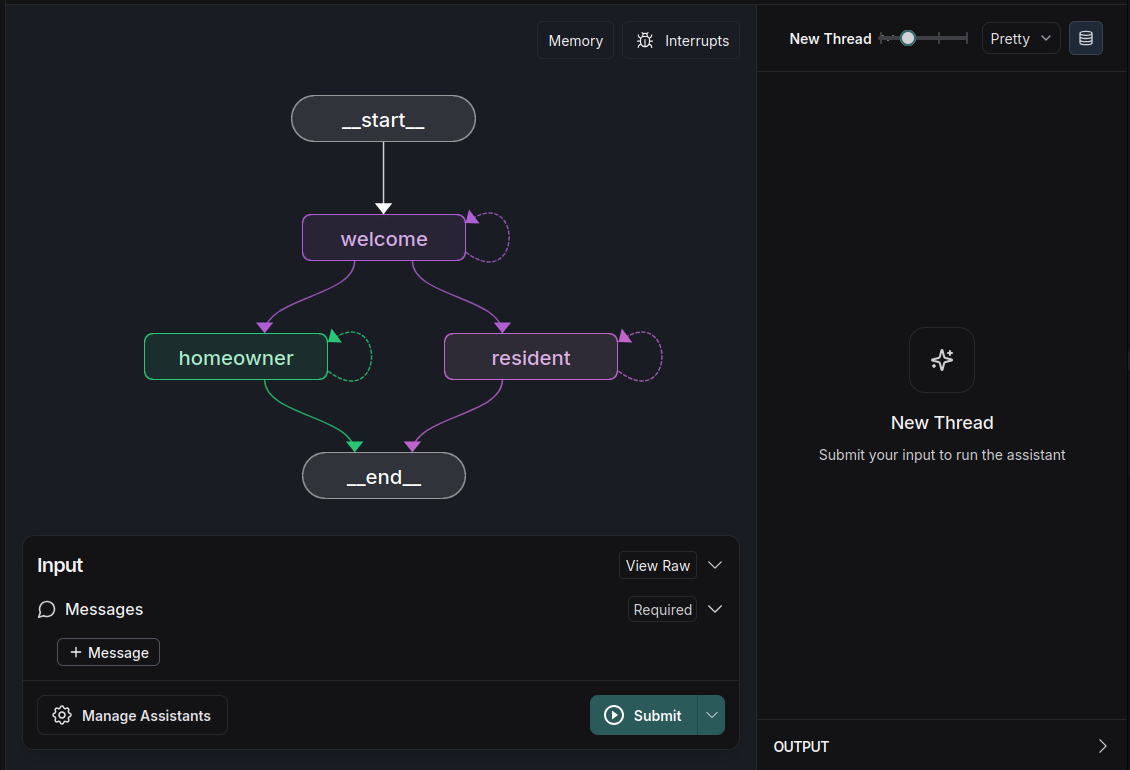
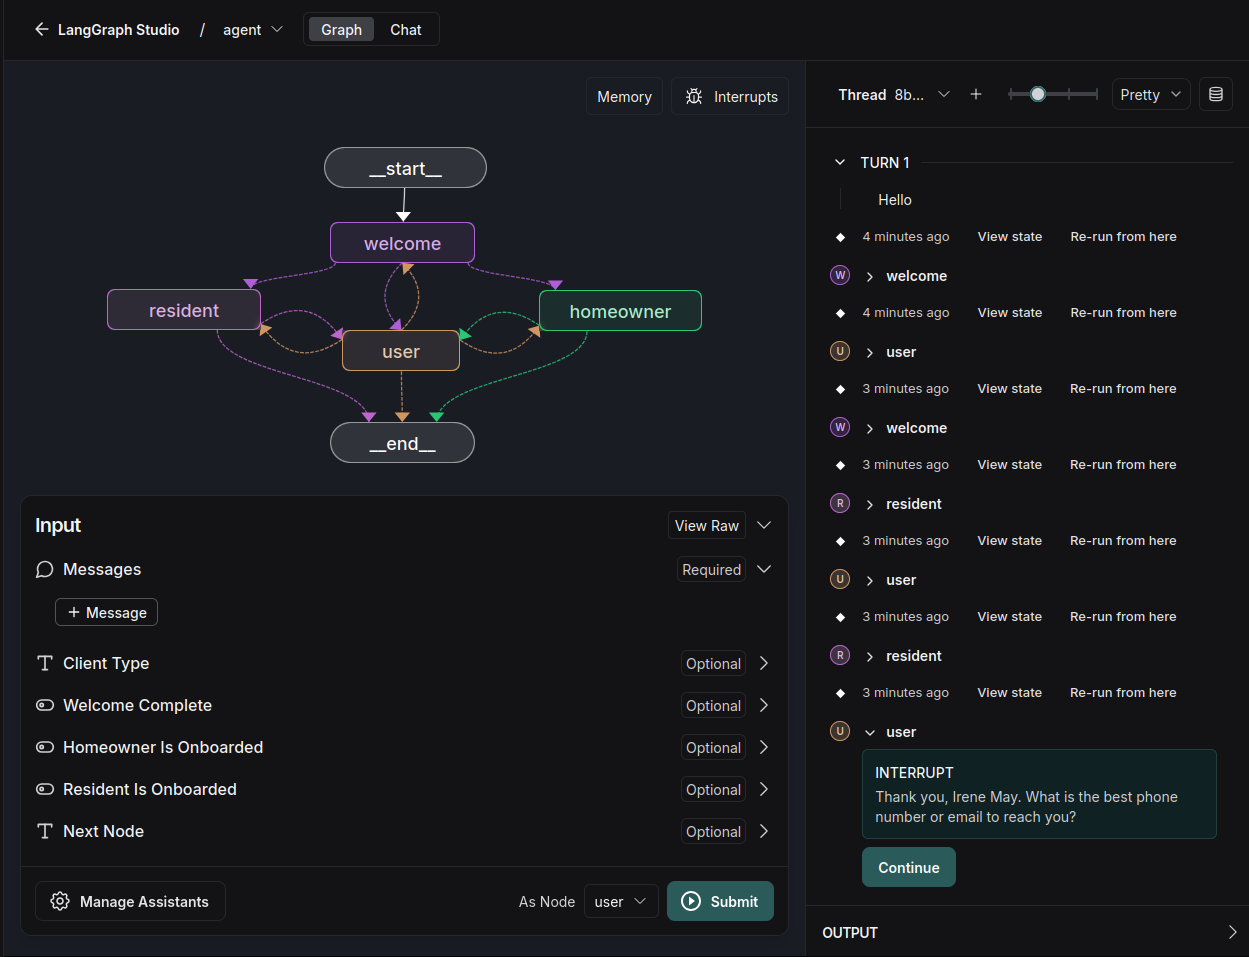
renting_chatbot: Included the user node.

diff --git a/renting-chatbot/src/renting_chatbot/agents.py b/renting-chatbot/src/renting_chatbot/agents.py
@@ -5,7 +5,8 @@ from datetime import datetime
 from langgraph.prebuilt import create_react_agent
 from langgraph.errors import NodeInterrupt
 from langgraph.checkpoint.memory import MemorySaver
-# from langchain_core.messages import AIMessage #AnyMessage, SystemMessage, HumanMessage, ToolMessage, AIMessage, trim_messages
+from langchain_core.messages import HumanMessage #AIMessage AnyMessage, SystemMessage, HumanMessage, ToolMessage, AIMessage, trim_messages
+from langgraph.types import interrupt, Command
 
 from src.renting_chatbot.state import State
 from src.renting_chatbot.prompts import WELCOME_AGENT_PROMPT, HOMEOWNER_AGENT_PROMPT, RESIDENT_AGENT_PROMPT
@@ -27,34 +28,35 @@ def welcome_node(state: State, config: dict):
         first_message = "Yes"
     else:
         first_message = "No"
-
-    # replace placeholder with messages from state
-    p = WELCOME_AGENT_PROMPT.format(
-        messages = messages,
-        company_name = os.getenv("COMPANY_NAME"),
-        first_message = first_message
-    )
-
-    raw_model = init_model(config)
-    welcome_agent = create_react_agent(
-                                model = raw_model, 
-                                tools = [], 
-                                prompt = p,
-                                # response_format=WelcomeAgentResponse,
-                                # state_schema=CustomAgentState,
-                                # debug=True,
-                        )
-
-    response = welcome_agent.invoke({"messages": messages}, config = config )
-    
-    # Parse the JSON from the last message to extract onboarding_complete and client_type
     try:
+        # replace placeholder with messages from state
+        p = WELCOME_AGENT_PROMPT.format(
+            messages = messages,
+            company_name = os.getenv("COMPANY_NAME"),
+            first_message = first_message
+        )
+
+        raw_model = init_model(config)
+        welcome_agent = create_react_agent(
+                                    model = raw_model, 
+                                    tools = [], 
+                                    prompt = p,
+                                    # response_format=WelcomeAgentResponse,
+                                    # state_schema=CustomAgentState,
+                                    # debug=True,
+                            )
+
+        response = welcome_agent.invoke({"messages": messages}, config = config )
+
         last_message = response['messages'][-1].content
         # Check if the content is a valid JSON string
         result = extract_json_from_message(last_message)
+
+        # Parse the JSON from the last message to extract onboarding_complete and client_type
         
         if result is not None:
             ai_response = result.get("message", "")
+
             client_type = result.get("client_type", "unsure")
             welcome_complete = result.get("welcome_complete", False)
 
@@ -66,6 +68,7 @@ def welcome_node(state: State, config: dict):
                 "messages": response['messages'],
                 "welcome_complete": welcome_complete,
                 "client_type": client_type,
+                "next_node": "welcome"
             }
         else:
             logger.error(f"Error parsing JSON from welcome agent: {last_message}")
@@ -95,11 +98,11 @@ def homeowner_node(state: State, config: dict):
                                     )
 
         response = homeowner_agent.invoke({"messages": messages}, config = config )
-        
+
         last_message = response['messages'][-1].content
         # Check if the content is a valid JSON string
         result = extract_json_from_message(last_message)
-        
+
         if result is not None:
             ai_response = result.get("message", "")
             homeowner_name = result.get("name", None)
@@ -121,7 +124,8 @@ def homeowner_node(state: State, config: dict):
 
             return {
                 "messages": response['messages'],
-                "homeowner_is_onboarded": onboarding_complete
+                "homeowner_is_onboarded": onboarding_complete,
+                "next_node": "homeowner"
             }
         else:
             logger.error(f"Error parsing JSON from homeowner agent: {last_message}")
@@ -183,11 +187,37 @@ def resident_node(state: State, config: dict):
 
             return {
                 "messages": response['messages'],
-                "resident_is_onboarded": onboarding_complete
+                "resident_is_onboarded": onboarding_complete,
+                "next_node": "resident"
             }
         else:
             logger.error(f"Error parsing JSON from resident agent: {last_message}")
     except Exception as e:
         logger.error(f"Error parsing JSON from resident agent: {e}")
         raise NodeInterrupt("Error parsing JSON from resident agent")
-    
+
+
+from typing import Literal
+
+def user_node(state: State) -> Command[Literal['welcome', 'homeowner', 'resident']]:
+    """A node for collecting user input."""
+    logger.info("User node...")
+
+    last_message = state.messages[-1].content
+    result = extract_json_from_message(last_message)
+
+    if result is not None:
+        ai_query = result.get("message", "")
+    else:
+        ai_query = state.messages[-1].content
+
+    logger.info(f"User node, query: {ai_query}")
+    logger.info(f"User node, next node: {state.next_node}")
+
+    user_input = interrupt(value=ai_query)
+    logger.info(f"User node, user input: {user_input}")
+
+    return {
+           "messages": [HumanMessage(content=user_input)],
+           "next_node": state.next_node
+           }

diff --git a/renting-chatbot/src/renting_chatbot/graph.py b/renting-chatbot/src/renting_chatbot/graph.py
@@ -1,6 +1,6 @@
-from dotenv import load_dotenv
 from loguru import logger
 from typing import Literal
+from dotenv import load_dotenv
 
 from langgraph.graph import StateGraph
 from langgraph.graph import START, StateGraph # END
@@ -8,53 +8,59 @@ from langgraph.checkpoint.memory import MemorySaver
 
 from src.renting_chatbot.configuration import Configuration
 from src.renting_chatbot.state import State, OutputState
-from src.renting_chatbot.agents import welcome_node, homeowner_node, resident_node
+from src.renting_chatbot.agents import welcome_node, homeowner_node, resident_node, user_node
 
 # We need this because we want to enable threads (conversations)
 checkpointer = MemorySaver()
 
 # Load environment variables from the .env file (if it exists)
-status = load_dotenv()
-
+status = load_dotenv(dotenv_path='renting-chatbot/.env')
 if status:
     logger.info("Environment variables loaded successfully.")
 else:
     logger.info("No environment variables found.")
-
-
-def welcome_routing_node(state: State) -> Literal["homeowner", "resident", "welcome"]:
+    
+def welcome_routing_node(state: State) -> Literal["homeowner", "resident", "user"]:
     if state.welcome_complete:
         if state.client_type == "homeowner":
-            logger.info("Routing to homeowner node")
-            return "homeowner"
+            node = "homeowner"
         elif state.client_type == "resident":
-            logger.info("Routing to resident node")
-            return "resident"
+            node = "resident"
         else:
-            logger.info("Routing to welcome node")
-            return "welcome"
+            node = "user"
     else:
-        logger.info("Routing to welcome node")
-        return "welcome"
+        node = "user"    
+    logger.info(f"Routing to {node} node")
+    return node
 
-
-def homeowner_routing_node(state: State) -> Literal["homeowner", "__end__" ]:
+def homeowner_routing_node(state: State) -> Literal["user", "__end__" ]:
     if state.homeowner_is_onboarded:
-        logger.info("Routing to END node")
-        return "__end__"
+        node = "__end__"
     else:
-        logger.info("Routing to homeowner node")
-        return "homeowner"
+        node = "user"
+    logger.info(f"Routing to {node} node")
+    return node
 
 
-def resident_routing_node(state: State) -> Literal["resident", "__end__" ]:
+def resident_routing_node(state: State) -> Literal["user", "__end__" ]:
     if state.resident_is_onboarded:
-        logger.info("Routing to END node")
-        return "__end__"
+        node = "__end__"
     else:
-        logger.info("Routing to resident node")
-        return "resident"
+        node = "user"
+    logger.info(f"Routing to {node} node")
+    return node
 
+def user_routing_node(state: State) -> Literal["welcome", "homeowner", "resident", "__end__" ]:
+    if state.next_node == "welcome":
+        node = "welcome"
+    elif state.next_node == "homeowner":
+        node = "homeowner"
+    elif state.next_node == "resident":
+        node = "resident"
+    else:
+        node = "__end__"
+    logger.info(f"Routing to {node} node")
+    return node
 # Create the graph
 workflow = StateGraph(
     State, output=OutputState, config_schema=Configuration
@@ -64,17 +70,19 @@ workflow = StateGraph(
 workflow.add_node("welcome", welcome_node)
 workflow.add_node("homeowner", homeowner_node)
 workflow.add_node("resident", resident_node)
-
+workflow.add_node("user", user_node)
 # Define the edges and control flow
+
 workflow.add_edge(START, "welcome")
 workflow.add_conditional_edges("welcome", welcome_routing_node)
 workflow.add_conditional_edges("homeowner", homeowner_routing_node)
 workflow.add_conditional_edges("resident", resident_routing_node)
+workflow.add_conditional_edges("user", user_routing_node)
 
 # Compile the graph
 graph = workflow.compile(
     # checkpointer=checkpointer, # Comment to run LangGraph Studio
-    interrupt_after=["welcome", "homeowner", "resident"],
+    # interrupt_after=["welcome", "homeowner", "resident"],
 )
 
 graph.name = "RentingChatbot"

diff --git a/renting-chatbot/tests/test_graph.py b/renting-chatbot/tests/test_graph.py
@@ -2,10 +2,18 @@ import os
 import sys
 import asyncio
 from loguru import logger
+from dotenv import load_dotenv
 
 # from langgraph.types import Command
 from langgraph.errors import NodeInterrupt
 from langchain_core.messages import HumanMessage #, ToolMessage, AIMessage, AnyMessage, SystemMessage, 
+
+# Load environment variables from the .env file (if it exists)
+# status = load_dotenv(dotenv_path='renting-chatbot/.env')
+# if status:
+#     logger.info("Environment variables loaded successfully.")
+# else:
+#     logger.info("No environment variables found.")
 
  # Get the parent directory of the script
 parent_dir = os.path.abspath(os.path.join(os.path.dirname(__file__), os.pardir))
@@ -25,10 +33,10 @@ async def test_graph() -> None:
     }
 
     messages = [
-        # [HumanMessage(content= "Hello, how are you?")],
+        [HumanMessage(content= "Hello there")],
         # [HumanMessage(content= "Hello, I am a homeowner")]
-        [HumanMessage(content= "Hello, I am a resident")],
-        [HumanMessage(content= "I am looking for a place to live in Denver")],
+        # [HumanMessage(content= "Hello, I am a resident")],
+        # [HumanMessage(content= "I am looking for a place to live in Denver")],
     ]
  
     try:

diff --git a/renting-chatbot/src/renting_chatbot/state.py b/renting-chatbot/src/renting_chatbot/state.py
@@ -34,6 +34,7 @@ class State:
     homeowner_is_onboarded: bool = False
     # Resident agent
     resident_is_onboarded: bool = False
+    next_node: Literal["welcome", "homeowner", "resident", "user"] = "welcome"
   
 # @dataclass(kw_only=True)
 class OutputState():

diff --git a/renting-chatbot/README.md b/renting-chatbot/README.md
@@ -12,11 +12,12 @@ The system uses LangGraph and LangChain to create a conversational flow with spe
 
 ## Architecture
 
-The chatbot operates through a state machine with three primary agents:
+The chatbot operates through a state machine with four primary nodes:
 
 1. **Welcome Agent** - Determines if the user is a homeowner or a resident
 2. **Homeowner Agent** - Handles property onboarding for homeowners
 3. **Resident Agent** - Facilitates property searching and tours for residents
+4. **User Node** - Collects user input and routes to appropriate agent nodes
 
 ![Graph Diagram](static/graph.png)
 
@@ -27,7 +28,8 @@ The system works by:
 1. Starting with the Welcome Agent to classify the user
 2. Based on classification, routing to either the Homeowner or Resident Agent
 3. Capturing relevant information through structured conversations
-4. Triggering appropriate actions (scheduling inspections, property tours, etc.)
+4. The User Node handles transitions between states and collects user input
+5. Triggering appropriate actions (scheduling inspections, property tours, etc.)
 
 ## Agents
 
@@ -45,6 +47,12 @@ The system works by:
 - Searches available properties matching criteria
 - Schedules property tours
 - Notifies staff about scheduled tours
+
+### User Node
+- Collects and processes user input
+- Routes conversations to appropriate agent nodes based on the state
+- Manages conversation flow between different specialized agents
+- Handles interrupts for interactive user sessions
 
 ## Tools
 
